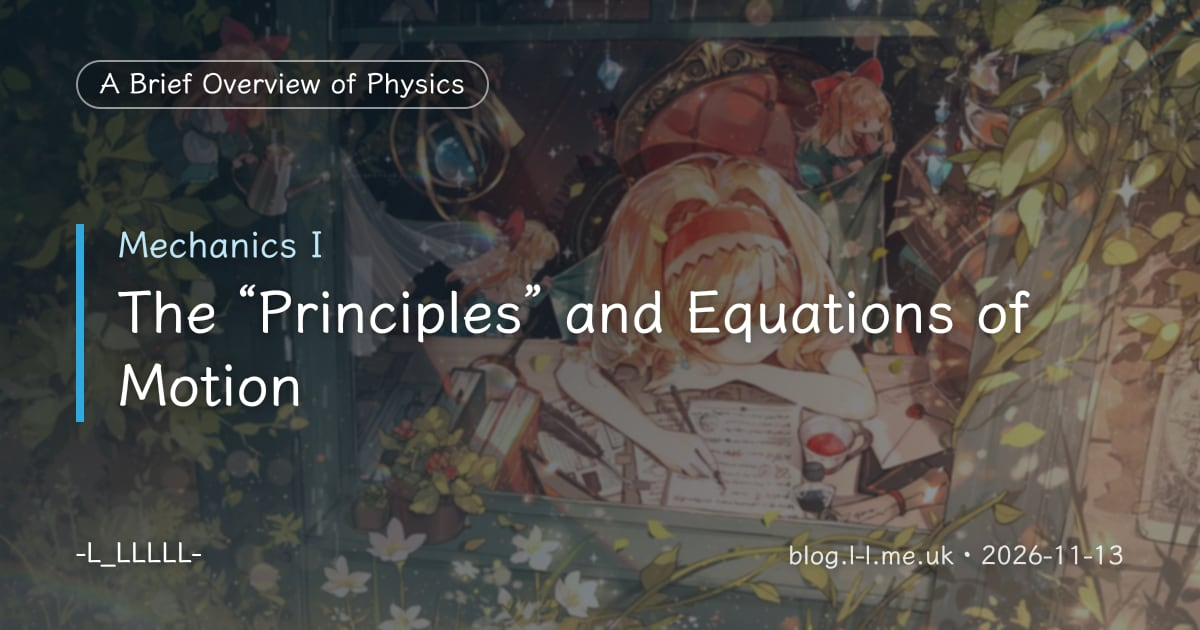
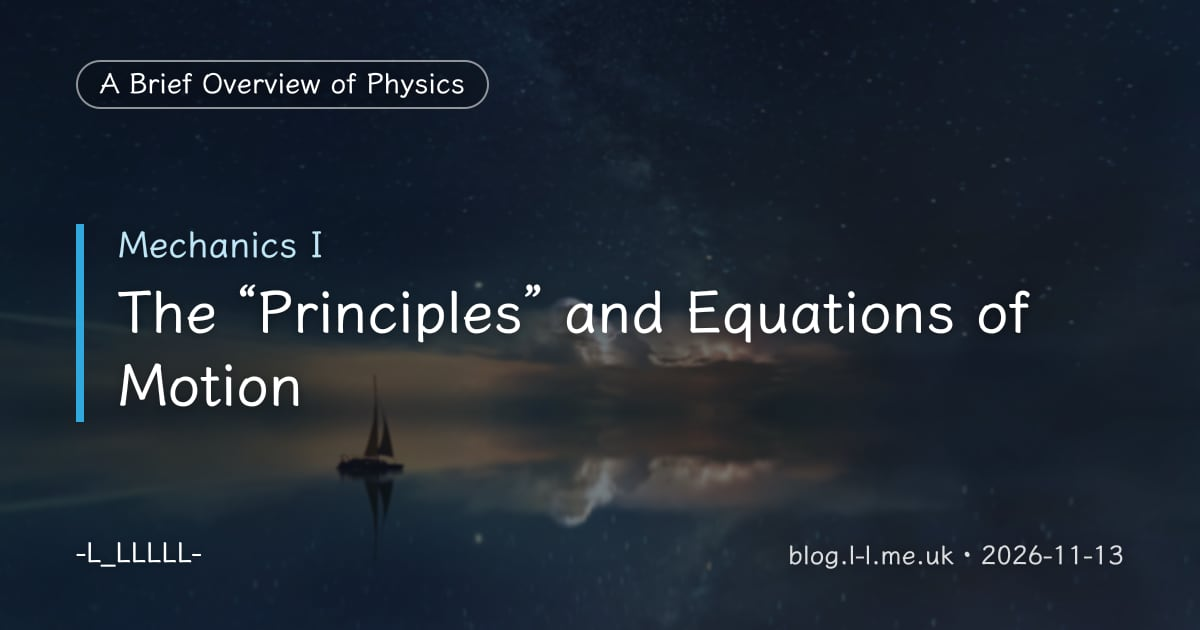
Site updated: 2026-11-27 22:05:35

diff --git a/zh-CN/index.html b/zh-CN/index.html
@@ -225,7 +225,7 @@
 <div class="row mx-auto index-card">
       <div class="col-12 col-md-4 m-auto index-img">
           <a href="/mechanics-03.3/" target="_self">
-            <img src="https://l-lllll-06.github.io/picx-images-hosting/for-blog/118500005_p0_master1200.2oc74u5q1l.webp" srcset="/img/loading.gif" lazyload alt="力学-3.3 哈密顿力学——可积系统与光学—力学类比">
+            <img src="https://github.com/l-lllll-06/picx-images-hosting/raw/master/for-blog/C09-Thin_Film_Interference_Soap_Bubble.2369a6.jpg" srcset="/img/loading.gif" lazyload alt="力学-3.3 哈密顿力学——可积系统与光学—力学类比">
           </a>
         </div>
       <article class="col-12 col-md-8 mx-auto index-info">
@@ -266,7 +266,7 @@
     </div><div class="row mx-auto index-card">
       <div class="col-12 col-md-4 m-auto index-img">
           <a href="/mechanics-03.2/" target="_self">
-            <img src="https://l-lllll-06.github.io/picx-images-hosting/for-blog/118500005_p0_master1200.2oc74u5q1l.webp" srcset="/img/loading.gif" lazyload alt="力学-3.2 哈密顿力学——正则变换与哈密顿—雅可比方程">
+            <img src="https://github.com/l-lllll-06/picx-images-hosting/raw/master/for-blog/mechanics-03.2-heavens-lights-4k.7f9bd7.webp" srcset="/img/loading.gif" lazyload alt="力学-3.2 哈密顿力学——正则变换与哈密顿—雅可比方程">
           </a>
         </div>
       <article class="col-12 col-md-8 mx-auto index-info">
@@ -307,7 +307,7 @@
     </div><div class="row mx-auto index-card">
       <div class="col-12 col-md-4 m-auto index-img">
           <a href="/cmvn274n300070s7yb3d29f42/" target="_self">
-            <img src="https://l-lllll-06.github.io/picx-images-hosting/for-blog/118500005_p0_master1200.2oc74u5q1l.webp" srcset="/img/loading.gif" lazyload alt="力学-3.1 哈密顿力学——辛形式与正则方程">
+            <img src="https://github.com/l-lllll-06/picx-images-hosting/raw/master/for-blog/A06-Jovian_Tempest.94c6d3.jpg" srcset="/img/loading.gif" lazyload alt="力学-3.1 哈密顿力学——辛形式与正则方程">
           </a>
         </div>
       <article class="col-12 col-md-8 mx-auto index-info">

diff --git a/index.html b/index.html
@@ -225,7 +225,7 @@
 <div class="row mx-auto index-card">
       <div class="col-12 col-md-4 m-auto index-img">
           <a href="/en/mechanics-02/" target="_self">
-            <img src="https://l-lllll-06.github.io/picx-images-hosting/for-blog/101891205_p0_master1200.2a5ra7jjyn.webp" srcset="/img/loading.gif" lazyload alt="Mechanics II: Symmetry and Conservation Laws">
+            <img src="https://github.com/l-lllll-06/picx-images-hosting/raw/master/for-blog/A05-Messier51_sRGB.c7b098.jpg" srcset="/img/loading.gif" lazyload alt="Mechanics II: Symmetry and Conservation Laws">
           </a>
         </div>
       <article class="col-12 col-md-8 mx-auto index-info">
@@ -266,7 +266,7 @@
     </div><div class="row mx-auto index-card">
       <div class="col-12 col-md-4 m-auto index-img">
           <a href="/en/mechanics-01/" target="_self">
-            <img src="https://l-lllll-06.github.io/picx-images-hosting/for-blog/78166169_p0_master1200.9rk2dwn5ue.webp" srcset="/img/loading.gif" lazyload alt="Mechanics I: The “Principles” and Equations of Motion">
+            <img src="https://github.com/l-lllll-06/picx-images-hosting/raw/master/for-blog/mechanics-01-sailboat-milky-way-4k.c98dd0.webp" srcset="/img/loading.gif" lazyload alt="Mechanics I: The “Principles” and Equations of Motion">
           </a>
         </div>
       <article class="col-12 col-md-8 mx-auto index-info">

diff --git a/en/mechanics-01/index.html b/en/mechanics-01/index.html
@@ -24,7 +24,7 @@
   <meta property="og:image:width" content="1200">
   <meta property="og:image:height" content="630">
   <meta property="article:published_time" content="2026-11-13T22:41:08.000Z">
-  <meta property="article:modified_time" content="2026-11-26T22:45:11.709Z">
+  <meta property="article:modified_time" content="2026-11-27T21:47:49.209Z">
   <meta property="article:author" content="-L_LLLLL-">
   <meta property="article:tag" content="A Brief Overview of Physics">
   <meta name="twitter:card" content="summary_large_image">
@@ -143,7 +143,7 @@
     </div>
   </div>
 </nav>
-      <div id="banner" class="banner" parallax="true" style="background: url('https://l-lllll-06.github.io/picx-images-hosting/for-blog/78166169_p0_master1200.9rk2dwn5ue.webp') no-repeat center center; background-size: cover;">
+      <div id="banner" class="banner" parallax="true" style="background: url('https://github.com/l-lllll-06/picx-images-hosting/raw/master/for-blog/mechanics-01-sailboat-milky-way-4k.c98dd0.webp') no-repeat center center; background-size: cover;">
   <div class="full-bg-img">
     <div class="mask flex-center" style="background-color: rgba(0, 0, 0, 0.3)">
       <div class="banner-text text-center fade-in-up">

diff --git a/mechanics-03.3/index.html b/mechanics-03.3/index.html
@@ -24,7 +24,7 @@
   <meta property="og:image:width" content="1200">
   <meta property="og:image:height" content="630">
   <meta property="article:published_time" content="2026-07-15T12:25:17.000Z">
-  <meta property="article:modified_time" content="2026-11-26T22:45:04.801Z">
+  <meta property="article:modified_time" content="2026-11-27T22:02:50.563Z">
   <meta property="article:author" content="-L_LLLLL-">
   <meta property="article:tag" content="物理学简述">
   <meta name="twitter:card" content="summary_large_image">
@@ -143,7 +143,7 @@
     </div>
   </div>
 </nav>
-      <div id="banner" class="banner" parallax="true" style="background: url('https://l-lllll-06.github.io/picx-images-hosting/for-blog/118500005_p0_master1200.2oc74u5q1l.webp') no-repeat center center; background-size: cover;">
+      <div id="banner" class="banner" parallax="true" style="background: url('https://github.com/l-lllll-06/picx-images-hosting/raw/master/for-blog/C09-Thin_Film_Interference_Soap_Bubble.2369a6.jpg') no-repeat center center; background-size: cover;">
   <div class="full-bg-img">
     <div class="mask flex-center" style="background-color: rgba(0, 0, 0, 0.3)">
       <div class="banner-text text-center fade-in-up">

diff --git a/cmvn274mz00020s7y8cnm1r5c/index.html b/cmvn274mz00020s7y8cnm1r5c/index.html
@@ -24,7 +24,7 @@
   <meta property="og:image:width" content="1200">
   <meta property="og:image:height" content="630">
   <meta property="article:published_time" content="2026-06-19T12:32:02.000Z">
-  <meta property="article:modified_time" content="2026-11-26T22:45:04.795Z">
+  <meta property="article:modified_time" content="2026-11-27T21:47:38.654Z">
   <meta property="article:author" content="-L_LLLLL-">
   <meta property="article:tag" content="物理学简述">
   <meta name="twitter:card" content="summary_large_image">
@@ -143,7 +143,7 @@
     </div>
   </div>
 </nav>
-      <div id="banner" class="banner" parallax="true" style="background: url('https://l-lllll-06.github.io/picx-images-hosting/for-blog/78166169_p0_master1200.9rk2dwn5ue.webp') no-repeat center center; background-size: cover;">
+      <div id="banner" class="banner" parallax="true" style="background: url('https://github.com/l-lllll-06/picx-images-hosting/raw/master/for-blog/mechanics-01-sailboat-milky-way-4k.c98dd0.webp') no-repeat center center; background-size: cover;">
   <div class="full-bg-img">
     <div class="mask flex-center" style="background-color: rgba(0, 0, 0, 0.3)">
       <div class="banner-text text-center fade-in-up">

diff --git a/mechanics-03.2/index.html b/mechanics-03.2/index.html
@@ -24,7 +24,7 @@
   <meta property="og:image:width" content="1200">
   <meta property="og:image:height" content="630">
   <meta property="article:published_time" content="2026-07-15T12:25:16.000Z">
-  <meta property="article:modified_time" content="2026-11-26T22:45:04.800Z">
+  <meta property="article:modified_time" content="2026-11-27T22:02:19.779Z">
   <meta property="article:author" content="-L_LLLLL-">
   <meta property="article:tag" content="物理学简述">
   <meta name="twitter:card" content="summary_large_image">
@@ -143,7 +143,7 @@
     </div>
   </div>
 </nav>
-      <div id="banner" class="banner" parallax="true" style="background: url('https://l-lllll-06.github.io/picx-images-hosting/for-blog/118500005_p0_master1200.2oc74u5q1l.webp') no-repeat center center; background-size: cover;">
+      <div id="banner" class="banner" parallax="true" style="background: url('https://github.com/l-lllll-06/picx-images-hosting/raw/master/for-blog/mechanics-03.2-heavens-lights-4k.7f9bd7.webp') no-repeat center center; background-size: cover;">
   <div class="full-bg-img">
     <div class="mask flex-center" style="background-color: rgba(0, 0, 0, 0.3)">
       <div class="banner-text text-center fade-in-up">

diff --git a/en/mechanics-02/index.html b/en/mechanics-02/index.html
@@ -24,7 +24,7 @@
   <meta property="og:image:width" content="1200">
   <meta property="og:image:height" content="630">
   <meta property="article:published_time" content="2026-11-16T16:04:21.000Z">
-  <meta property="article:modified_time" content="2026-11-26T22:45:11.710Z">
+  <meta property="article:modified_time" content="2026-11-27T21:55:54.757Z">
   <meta property="article:author" content="-L_LLLLL-">
   <meta property="article:tag" content="A Brief Overview of Physics">
   <meta name="twitter:card" content="summary_large_image">
@@ -143,7 +143,7 @@
     </div>
   </div>
 </nav>
-      <div id="banner" class="banner" parallax="true" style="background: url('https://l-lllll-06.github.io/picx-images-hosting/for-blog/101891205_p0_master1200.2a5ra7jjyn.webp') no-repeat center center; background-size: cover;">
+      <div id="banner" class="banner" parallax="true" style="background: url('https://github.com/l-lllll-06/picx-images-hosting/raw/master/for-blog/A05-Messier51_sRGB.c7b098.jpg') no-repeat center center; background-size: cover;">
   <div class="full-bg-img">
     <div class="mask flex-center" style="background-color: rgba(0, 0, 0, 0.3)">
       <div class="banner-text text-center fade-in-up">

diff --git a/cmvn274n100030s7y9nxn48bl/index.html b/cmvn274n100030s7y9nxn48bl/index.html
@@ -24,7 +24,7 @@
   <meta property="og:image:width" content="1200">
   <meta property="og:image:height" content="630">
   <meta property="article:published_time" content="2026-06-23T20:25:28.000Z">
-  <meta property="article:modified_time" content="2026-11-27T00:09:56.010Z">
+  <meta property="article:modified_time" content="2026-11-27T21:55:45.128Z">
   <meta property="article:author" content="-L_LLLLL-">
   <meta property="article:tag" content="物理学简述">
   <meta name="twitter:card" content="summary_large_image">
@@ -143,7 +143,7 @@
     </div>
   </div>
 </nav>
-      <div id="banner" class="banner" parallax="true" style="background: url('https://l-lllll-06.github.io/picx-images-hosting/for-blog/101891205_p0_master1200.2a5ra7jjyn.webp') no-repeat center center; background-size: cover;">
+      <div id="banner" class="banner" parallax="true" style="background: url('https://github.com/l-lllll-06/picx-images-hosting/raw/master/for-blog/A05-Messier51_sRGB.c7b098.jpg') no-repeat center center; background-size: cover;">
   <div class="full-bg-img">
     <div class="mask flex-center" style="background-color: rgba(0, 0, 0, 0.3)">
       <div class="banner-text text-center fade-in-up">

diff --git a/cmvn274n300070s7yb3d29f42/index.html b/cmvn274n300070s7yb3d29f42/index.html
@@ -24,7 +24,7 @@
   <meta property="og:image:width" content="1200">
   <meta property="og:image:height" content="630">
   <meta property="article:published_time" content="2026-07-15T12:25:15.000Z">
-  <meta property="article:modified_time" content="2026-11-26T22:45:04.798Z">
+  <meta property="article:modified_time" content="2026-11-27T21:56:41.045Z">
   <meta property="article:author" content="-L_LLLLL-">
   <meta property="article:tag" content="物理学简述">
   <meta name="twitter:card" content="summary_large_image">
@@ -143,7 +143,7 @@
     </div>
   </div>
 </nav>
-      <div id="banner" class="banner" parallax="true" style="background: url('https://l-lllll-06.github.io/picx-images-hosting/for-blog/118500005_p0_master1200.2oc74u5q1l.webp') no-repeat center center; background-size: cover;">
+      <div id="banner" class="banner" parallax="true" style="background: url('https://github.com/l-lllll-06/picx-images-hosting/raw/master/for-blog/A06-Jovian_Tempest.94c6d3.jpg') no-repeat center center; background-size: cover;">
   <div class="full-bg-img">
     <div class="mask flex-center" style="background-color: rgba(0, 0, 0, 0.3)">
       <div class="banner-text text-center fade-in-up">
